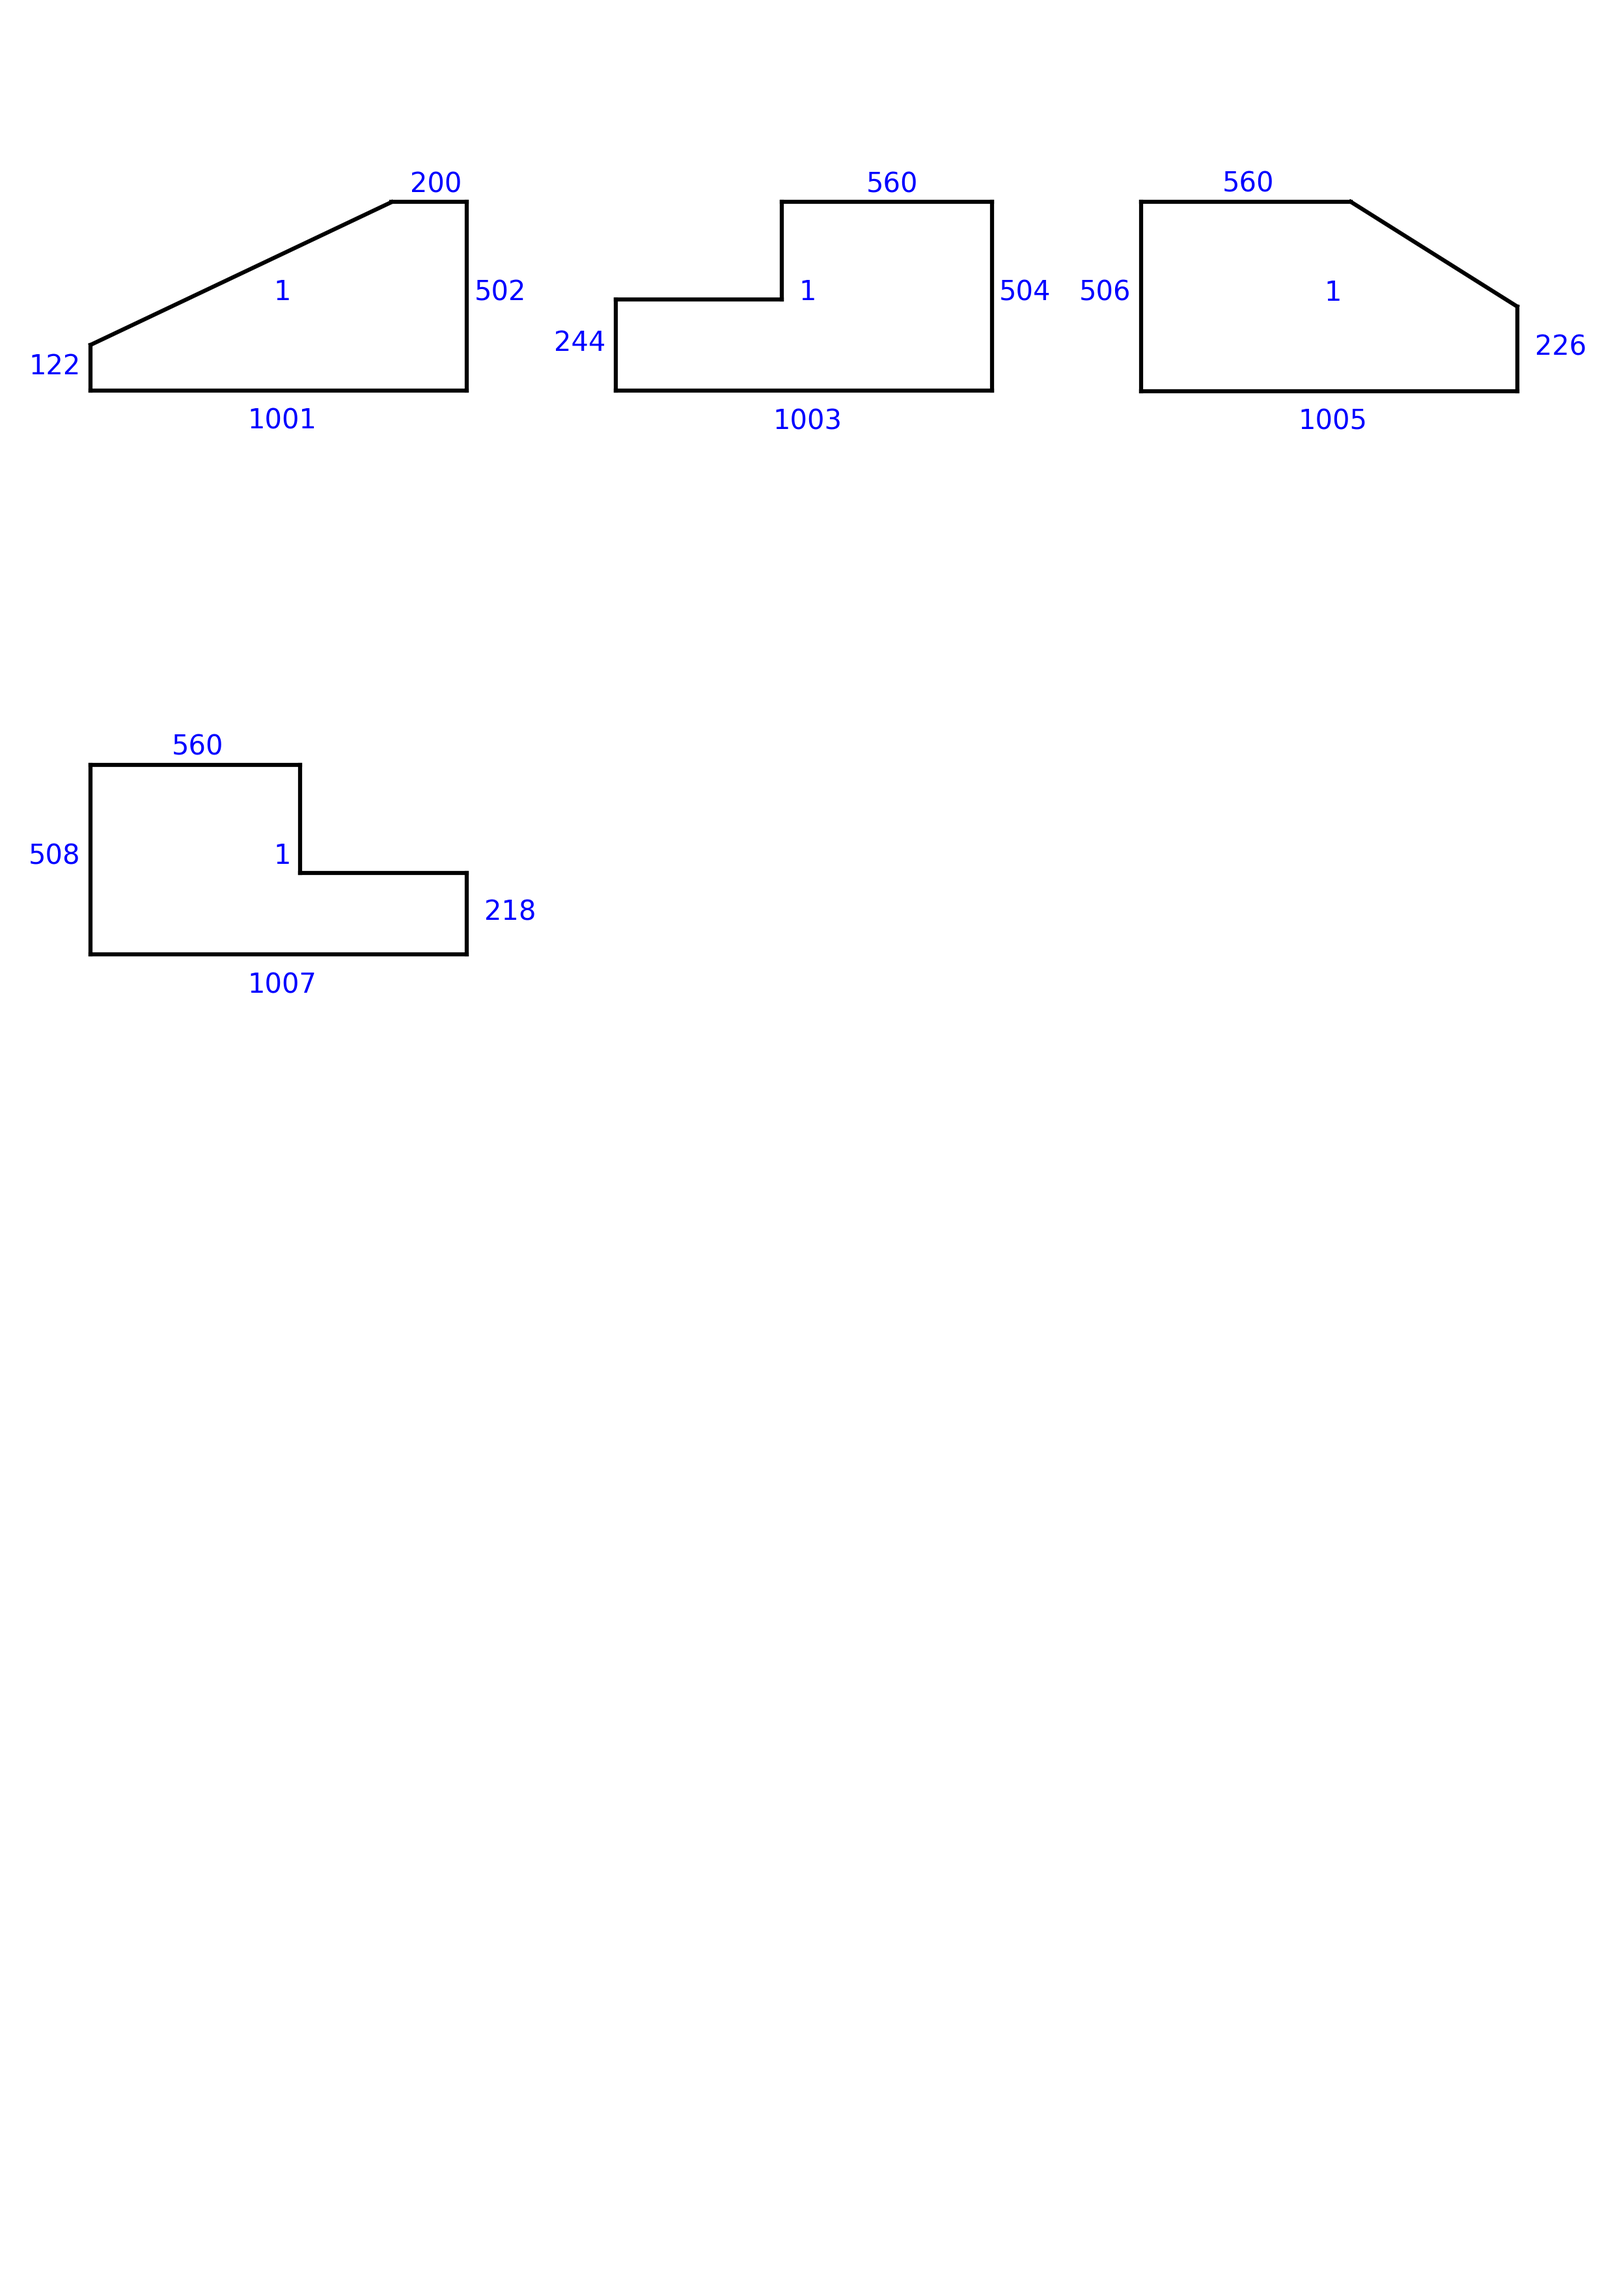
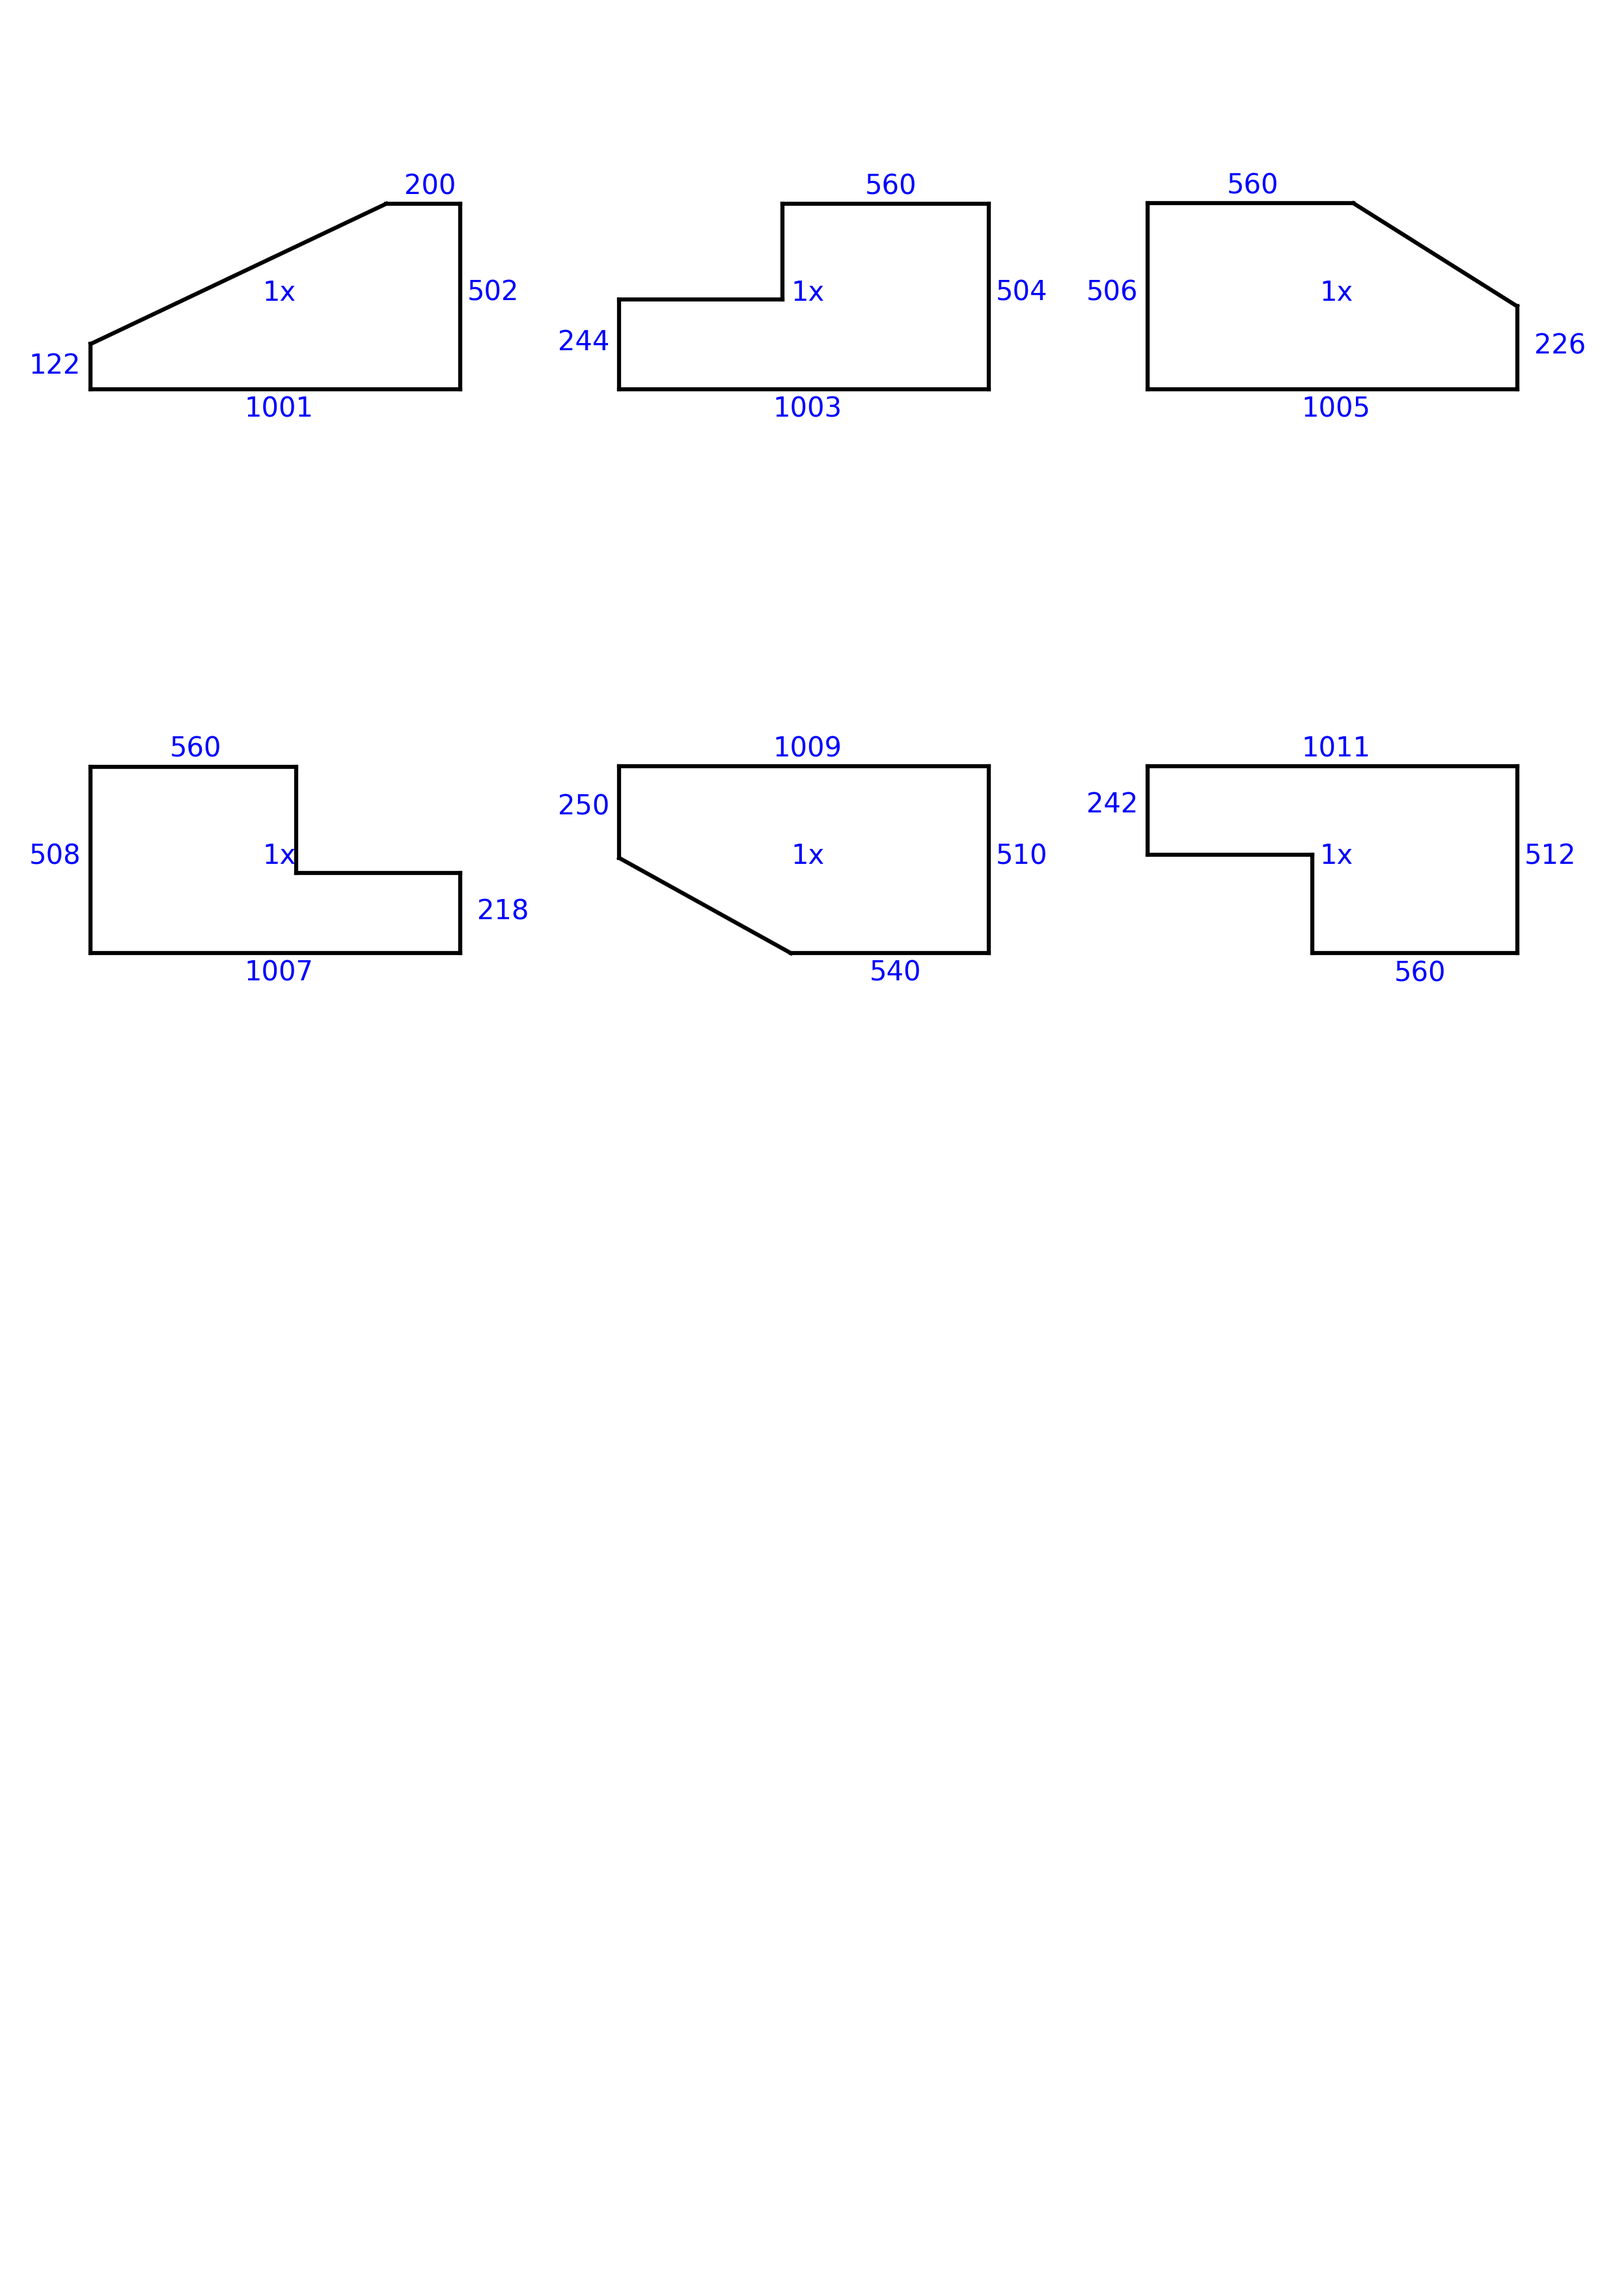
Added shapes 3-1 and 3-2. Total 6/8

diff --git a/.ignore/image.py b/.ignore/image.py
@@ -44,6 +44,7 @@ def value_to_relative(min_val, max_val, value):
 def build_shape_from_tuple(data_tuple):
     shape_type = data_tuple[0]
     label_values = list(data_tuple[1:])  # 5 labels
+    label_values[2] = str(label_values[2]) + "x"
 
     if len(label_values) != 5:
         raise ValueError("Expected 5 label values: length, width, amount, value1, value2")
@@ -60,7 +61,7 @@ def build_shape_from_tuple(data_tuple):
                 (0, value2, 0, 0),
             ],
             "label_positions": [
-                (0.5, 0, 0, -15, 'center'),    # label below center
+                (0.5, 0, 0, -10, 'center'),    # label below center
                 (1.0, 0.5, 0, 0, 'left'),        # right side, offset right
                 (0.5, 0.5, 0, 0, 'center'),     # middle center
                 (value_to_relative(0, length, (length)-(value1/2)), 1.0, 0, 5, 'center'),     # near top right
@@ -79,7 +80,7 @@ def build_shape_from_tuple(data_tuple):
                 (0, value2, 0, 0),
             ],
             "label_positions": [
-                (0.5, 0, 0, -15, 'center'),    # label below center
+                (0.5, 0, 0, -10, 'center'),    # label below center
                 (1.0, 0.5, 0, 0, 'left'),        # right side, offset right
                 (0.5, 0.5, 0, 0, 'center'),     # middle center
                 (value_to_relative(0, length, (length)-(value1/2)), 1.0, 0, 5, 'center'),     # near top right
@@ -98,7 +99,7 @@ def build_shape_from_tuple(data_tuple):
                 (0, width, 0, 0),                              # left vertical
             ],
             "label_positions": [
-                (0.5, 0.0, 0, -15, 'center'),  # centered below
+                (0.5, 0.0, 0, -10, 'center'),  # centered below
                 (0.0, 0.5, -5, 0, 'right'),  # left mid
                 (0.5, 0.5, 0, 0, 'center'),  # center of the shape
                 (value_to_relative(0, length, value1 / 2), 1.0, 0, 5, 'center'),  # near top left
@@ -117,7 +118,7 @@ def build_shape_from_tuple(data_tuple):
                 (0, width, 0, 0),                              # left vertical
             ],
             "label_positions": [
-                (0.5, 0.0, 0, -15, 'center'),  # centered below
+                (0.5, 0.0, 0, -10, 'center'),  # centered below
                 (0.0, 0.5, -5, 0, 'right'),  # left mid
                 (0.5, 0.5, 0, 0, 'center'),  # center of the shape
                 (value_to_relative(0, length, value1 / 2), 1.0, 0, 5, 'center'),  # near top left
@@ -125,6 +126,44 @@ def build_shape_from_tuple(data_tuple):
             ],
         }
 
+    elif shape_type == "31":
+        template = {
+            "lines": [
+                (length, 0, length, width),
+                (length, width, 0, width),
+                (0, width, 0, width-value2),
+                (0, width-value2, length-value1, 0),
+                (length-value1, 0, length, 0),
+            ],
+            "label_positions": [
+                (0.5, 1, 0, 5, 'center'),    # label above center
+                (1.0, 0.5, 0, 0, 'left'),        # right side, offset right
+                (0.5, 0.5, 0, 0, 'center'),     # middle center
+                (value_to_relative(0, length, (length)-(value1/2)), 0, 0, -10, 'center'),     # near top right
+                (0.0, value_to_relative(0, width, (width) - (value2/2)), -5, 0, 'right'),      # near bottom left
+            ],
+        }
+
+    elif shape_type == "32":
+        template = {
+            "lines": [
+                (length, 0, length, width),
+                (length, width, 0, width),
+                (0, width, 0, width-value2),
+                (0, width-value2, length-value1, width-value2),
+                (length-value1, width-value2, length-value1, 0),
+                (length-value1, 0, length, 0),
+            ],
+            "label_positions": [
+                (0.5, 1, 0, 5, 'center'),    # label above center
+                (1.0, 0.5, 0, 0, 'left'),        # right side, offset right
+                (0.5, 0.5, 0, 0, 'center'),     # middle center
+                (value_to_relative(0, length, (length)-(value1/2)), 0, 0, -10, 'center'),     # near bottom right
+                (0.0, value_to_relative(0, width, (width) - (value2/2)), -5, 0, 'right'),      # near top left
+            ],
+        }
+
+        
     else:
         raise ValueError(f"Unknown shape type: {shape_type}")
 
@@ -236,7 +275,11 @@ if __name__ == "__main__":
         ("11", 1001, 502, 1, 200, 122),
         ("12", 1003, 504, 1, 560, 244),
         ("21", 1005, 506, 1, 560, 226),
-        ("22", 1007, 508, 1, 560, 218)
+        ("22", 1007, 508, 1, 560, 218),
+        ("31", 1009, 510, 1, 540, 250),
+        ("32", 1011, 512, 1, 560, 242),
+        # ("41", 1013, 514, 1, 560, 234),
+        # ("42", 1015, 516, 1, 560, 226)
     ]
 
     # Fill up to more than one page
